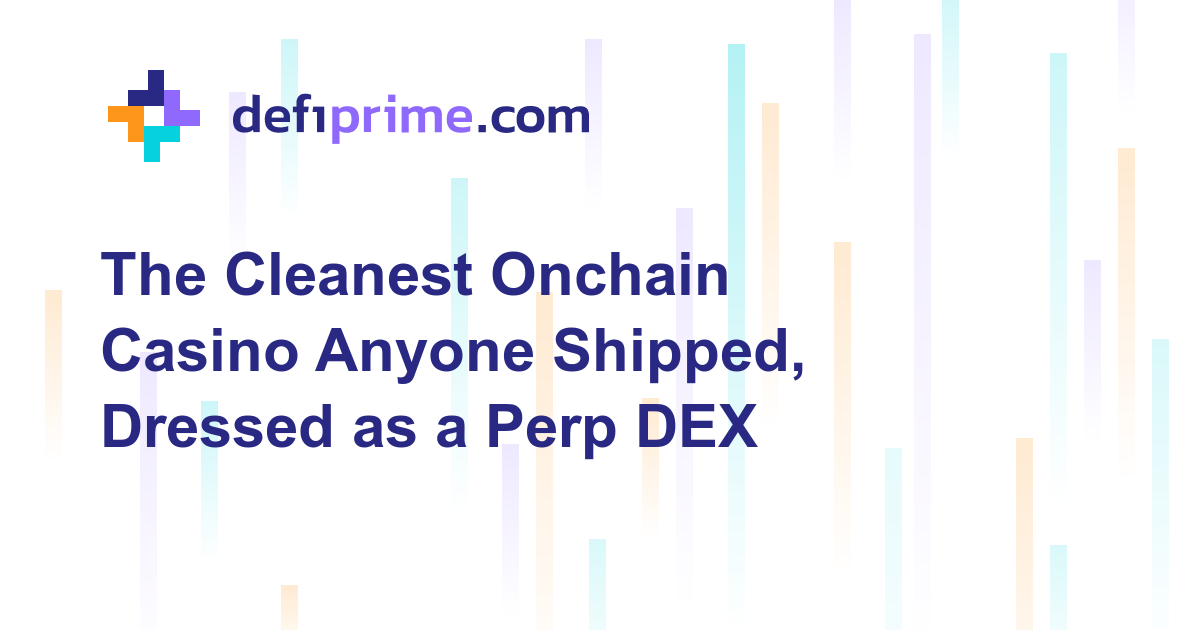
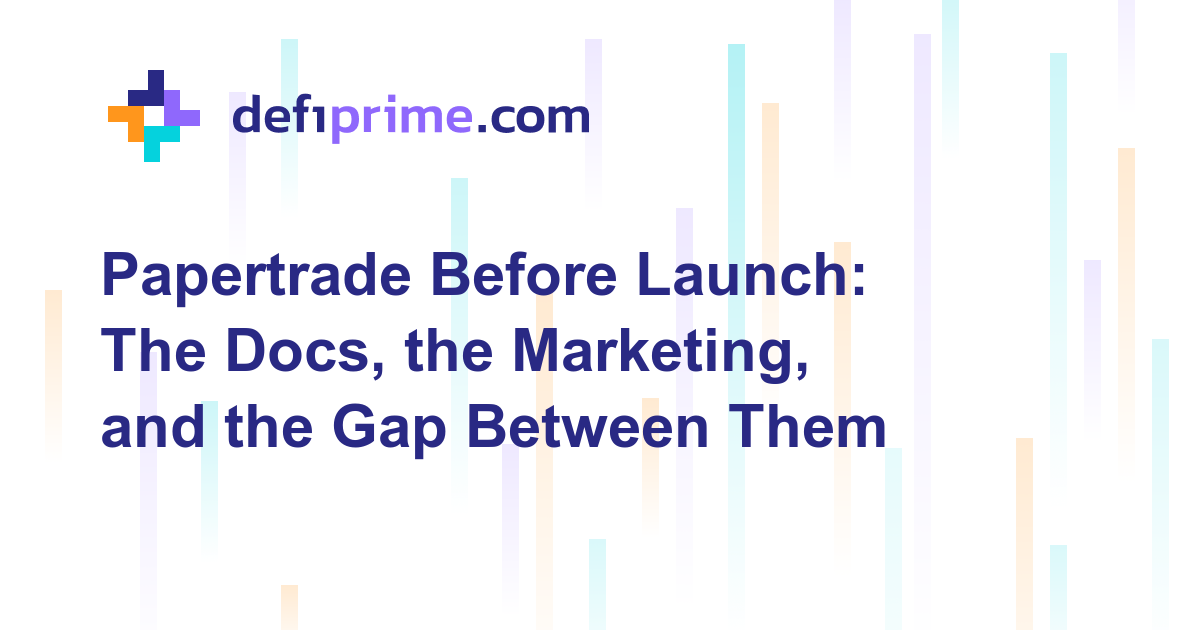
Rewrite Papertrade article: pre-launch frame, both readings, real risks
Big factual correction the previous drafts missed: papertrade is not
live. The front page says "trade coming soon"; only the docs and
whitepaper are public. Reframed as a pre-launch read of the design.

Addresses the load-bearing critiques from review:

1. Superlatives out. "Cleanest casino anyone shipped," "most honest
   design in DeFi," "most carefully engineered" all gone. Replaced
   with specific defensible claims.

2. Counter-take given equal weight. New section "The Counter-Read
   That Doesn't Get Disclosed" engages with the strongest criticism:
   1000x leverage with asymmetric haircuts is structurally trader-
   unfriendly by design, and the marketing buries that fact.

3. Oracle dependency fixed. The "zero exposure to Hyperliquid's
   risk stack" claim is wrong — papertrade reads HL's BBO and is
   exposed to HL order-book manipulation. Stated explicitly.

4. Governance fairness clarified. PAPER is supply-fair, not
   governance-fair. The contract owner controls every parameter
   in the mint curve, impact curve, and OI caps via 7-day timelock.

5. Regulation as a real risk. Anonymous team, leveraged speculative
   product distributing USDC dividends, marketing as "perp DEX"
   rather than "casino" — all framed as design responses to a
   regulatory environment the docs don't name.

6. Polymarket/UMA analogy cut. Was vibes, not structural argument.

7. Closer is now practitioner-actionable: what to watch in the LP
[…]

Changed region(s): [[0.0617, 0.6333, 0.74, 0.7238], [0.0617, 0.3921, 0.74, 0.4825], [0.0617, 0.5127, 0.6783, 0.6032]]

diff --git a/collections/_posts/2026-05-14-papertrade-hyperliquid-1000x-perps.md b/collections/_posts/2026-05-14-papertrade-hyperliquid-1000x-perps.md
@@ -1,89 +1,84 @@
 ---
 git-date:
 layout: [blog]
-title: "Papertrade Is the Cleanest Onchain Casino Anyone's Shipped, Dressed as a Perp DEX"
+title: "Papertrade Before Launch: Mechanism Design, Marketing Gaps, and the Questions the Docs Don't Answer"
 permalink: papertrade-hyperliquid-1000x-perps
-h1title: "Papertrade: The Cleanest Onchain Casino, Dressed as a Perp DEX"
-pagetitle: "Papertrade Is the Cleanest Onchain Casino Anyone's Shipped, Dressed as a Perp DEX"
-metadescription: "Papertrade's 1000x leverage and 'fair-launched fully onchain perpetual exchange' framing buries the real story: an academically-grounded onchain casino with a zero-LP bootstrap and a token minted only by losers, sitting on top of Hyperliquid's price feed."
+h1title: "Papertrade Before Launch: What the Docs Show and the Marketing Hides"
+pagetitle: "Papertrade Before Launch: Mechanism Design, Marketing Gaps, and the Questions the Docs Don't Answer"
+metadescription: "Papertrade.xyz's marketing pitches 1000x leverage synthetic perps; the trading interface is still 'coming soon'. The docs and Martin Galer whitepaper describe a peer-vs-pool casino on Hyperliquid with a zero-LP bootstrap. Here's what the design buys, what the framing buries, and what the protocol doesn't say."
 category: blog
 featured-image: /images/blog/papertrade-hyperliquid-1000x-perps-ogp.png
-intro: "Papertrade's 1000x leverage and 'fair-launched fully onchain perpetual exchange' framing buries the real story: an academically-grounded onchain casino with a zero-LP bootstrap and a token minted only by losers, sitting on top of Hyperliquid's price feed."
+intro: "Papertrade.xyz's marketing pitches 1000x leverage synthetic perps; the trading interface is still 'coming soon'. The docs and Martin Galer whitepaper describe a peer-vs-pool casino on Hyperliquid with a zero-LP bootstrap. Here's what the design buys, what the framing buries, and what the protocol doesn't say."
 author: sawinyh
 tags: ["Analysis"]
 ---
 
-The pitch on papertrade.xyz reads like every other extreme-leverage perp protocol: 1000x leverage, 0 slippage, 100% user owned, fully onchain. Read the docs and the whitepaper and that framing falls apart. Papertrade is not a perp DEX. It is the most carefully-engineered onchain casino anyone has shipped to date, with a token-economics design that's the rarest thing in DeFi — actually fair — and it runs on top of Hyperliquid without taking any of Hyperliquid's solvency risk. The "1000x perp" packaging is what gets it past the DeFi/gambling line in people's heads. The mechanism underneath is straight out of [Tarun Chitra and Guillermo Angeris' CFMM literature](https://docs.papertrade.xyz/martingaler-whitepaper.pdf).
+The papertrade.xyz front page says "trade coming soon" in small text under the 1000x-leverage marketing copy. The trading interface isn't live, the mobile app isn't live, the agent integration isn't live. What is live is a docs site at [docs.papertrade.xyz](https://docs.papertrade.xyz/) and a [whitepaper](https://docs.papertrade.xyz/martingaler-whitepaper.pdf) — *Martin Galer: A Bootstrapping Mechanism for Sustainable Asynchronous Speculation Games of Chance* — authored by Jez (@izebel_eth) and Blurr, the latter known on-chain as "Refund Contract Deployer." This piece is a pre-launch read of the design. Nothing is on chain yet; nothing in here is observed product behavior. It is what the docs commit to and what the marketing leaves out.
 
-Three things make this protocol worth paying attention to, none of them is the leverage number.
+The headline shape of the product is straightforward. Papertrade is a peer-vs-pool synthetic perp running on HyperEVM that uses Hyperliquid's best-bid/offer precompile as a price oracle. No order book, no matching engine, no other trader on the other side; the protocol's internal LP is the counterparty on every trade. The LP starts at $0 and is designed to grow only from cumulative user losses. The native token, PAPER, is minted exclusively to traders who close at a loss. None of this is hidden in the docs. All of it is hidden in the marketing.
 
-## It Doesn't Touch Hyperliquid's Risk Stack At All
+That gap between docs and marketing is the first thing worth being clear about, because the rest of the analysis depends on which document you trust as the protocol's self-description.
 
-The first surprise from the docs is that papertrade is not a [HIP-3](/hyperliquid-vs-aster) deployer. No 500,000 HYPE staked, no validator slashing exposure, no relationship with HLP. Papertrade runs its own contracts on HyperEVM — Hyperliquid's L1 EVM layer — and uses Hyperliquid's best-bid/offer precompile at `0x000000000000000000000000000000000000080e` purely as a price feed. No perp contract trades on Hyperliquid through papertrade. When you open a position, the Exchange contract reads the BBO mid, locks it as your entry, and creates a synthetic swap between you and the protocol's internal LP. When you close, it reads the BBO mid again and settles your PnL against that same LP.
+## What the Docs Commit To, in Plain Language
 
-That single architectural choice changes the risk picture entirely. The recent conversation about builder-deployed perps has centered on whether deployer stakes are calibrated to the bad-debt envelope deployers can route into HLP. Papertrade is outside that conversation. The protocol's three-bucket accounting (treasury, side bucket, payout queue) cannot route losses to HLP, because there's no relationship to HLP. If papertrade's LP blows up, the consequence lands on PAPER holders' dividends and on queued winners waiting longer — not on Hyperliquid validators, not on HLP depositors, not on anyone outside papertrade's own contracts.
+Stripped of jargon, the design is a casino with a few unusual properties.
 
-Papertrade is doing to Hyperliquid what Polymarket did to UMA: consuming the upstream's price infrastructure as a free public good, building a self-contained product on top, taking exactly zero exposure to the upstream's governance or solvency layer. The 7-day timelock on the contract owner is the only centralized lever, and it's exactly the same trust assumption you make using any proxied DeFi protocol.
+The price comes from Hyperliquid. Papertrade reads the BBO precompile at `0x000000000000000000000000000000000000080e`, takes the midpoint of the best bid and best ask on Hyperliquid's native order book, and uses it as both the entry price and the exit price for synthetic positions opened against the LP. No perpetual contract actually trades on Hyperliquid through papertrade. There is no funding cost in the protocol, because no real perp position is being held; there is no slippage at execution, because the trade clears at a precompile-read mid regardless of size.
 
-## The LP Starts at Zero. That's the Whole Point.
+The LP doesn't exist yet. There is no seed deposit, no pre-fund, no LP onboarding flow at all. The first time it has any USDC in it will be after a real user closes at a loss on the live protocol. Three buckets handle the accounting: a treasury (the LP balance, never negative), a side bucket (parked LP gains while the queue is non-empty), and a FIFO payout queue of unpaid winning closes. When a user wins and the LP can pay, they're paid. When the LP can't pay, the profit portion of the win goes to the back of the queue and the user's margin is returned immediately. When a user loses, the loss credits the LP if the queue is empty or parks in the side bucket if it isn't. A permissionless `harvest()` keeper drains the side bucket into queue payouts. Net protocol equity is `treasury + sideBucket − queueTotal`, and the docs explicitly note this can go negative.
 
-Most onchain casinos die for the same reason: they need a bankroll. SatoshiDice, Bustabit, Etheroll, EtherCrash all needed an LP seeded upfront before they could pay winners on demand. The seed had to come from somewhere — centralized capital, token-funded liquidity mining, or in EtherCrash's case, the LP getting drained by a bad actor — and that requirement made every onchain casino either custodial in spirit or a token-incentive game.
+The token is fair on supply, not on governance. PAPER has zero pre-mint, no team allocation, no VC allocation, no airdrop, no vesting. Every token has to be minted through one specific path: a trader closing at a loss or being liquidated. The mint rate is 100 PAPER per $1 of LP gain while the LP is below $2M (including underwater); above $2M the rate decays as `100 × (S / (S + H))²` with `S = $120M`. A strict high-water-mark ratchet means stakers can drain LP without resetting the rate. Stakers earn USDC dividends out of LP revenue: a continuous share of every settlement that credits the LP, plus a sweep of any LP balance above $5M.
 
-Papertrade's LP starts at $0. There is no seed, no founders' deposit, no upfront raise, and crucially, **no way for anyone to deposit directly into the LP**. The pool grows entirely from cumulative user losses. The mechanism that lets that work is the Martin Galer payout queue, written up in [a whitepaper](https://docs.papertrade.xyz/martingaler-whitepaper.pdf) co-authored by Jez (@izebel_eth) and Blurr that cites a wall of Chitra-Angeris papers on CFMM theory.
+Trading isn't actually free. The protocol charges no fee on notional, no spread, no funding, and the relayer covers gas. What it does charge is an asymmetric impact curve on winning closes only, adapted from Rollbit. The scale factor is steepest on the smallest moves and softens as the move grows; the docs publish the formula. Losing closes pay the full loss with no haircut on top. A 0.2 basis-point jitter-protection deadband zeros sub-spread wins. Trailing per-asset open-interest caps prevent an attacker who briefly distorts Hyperliquid's BBO from sizing into the distortion.
 
-The mechanics are clean enough to spell out. Three buckets: `treasury` (the LP, never negative), `sideBucket` (parked LP gains during a queue), and a FIFO `payout queue` of unpaid winning closes. When a user wins and the LP can pay, the user gets paid. When the LP can't pay, the profit portion of the win goes to the back of the queue and the user's margin returns immediately. When a user loses and the queue is empty, the loss credits the LP directly. When a user loses and the queue is non-empty, the loss is parked in the side bucket. A permissionless `harvest()` keeper periodically drains the side bucket into queue payouts in order.
+Live markets at launch are BTC and ETH, with up to 1000x leverage and a per-user position cap of $10M. The contract owner can list any Hyperliquid perp through a 7-day timelock, including HIP-3 markets.
 
-Net protocol equity is `treasury + sideBucket − queueTotal`, and the docs spell out the consequence: **that figure can go negative.** "Temporary insolvency by design." What guarantees winners eventually get paid is the assumption that aggregate user flow is positive-EV to the LP, which at 1000x leverage with the impact curve described below is almost certainly true.
+## The Genuine Contribution
 
-The thing that makes this a different category of design is that nobody is asked to put up risk capital. Traders show up to bet. Losses fund the LP. Winners may have to wait, but only on the profit portion, and only when the LP is in temporary deficit. Margin is always returned immediately. Nothing about this requires trust in a centralized treasury and nothing about it requires a token incentive that lies about what's actually happening.
+The Martin Galer mechanism is the part of the design that's worth taking seriously on its own terms. Onchain casinos have historically needed bankrolls — SatoshiDice (2012), Bustabit (2015), Etheroll (2017), EtherCrash (2018) all needed an LP seeded upfront so winners could be paid on demand. That requirement made every onchain casino either custodial in spirit or a token-incentive game, and in EtherCrash's case the LP got drained by a bad actor and the protocol died.
 
-## Every PAPER Token Is Minted By a Loser
+The Martin Galer payout queue removes the seed requirement. The cost is that winners might have to wait, but only on the profit portion of a winning close, and only when the LP is in deficit. Margin is always returned. The cost is real but contained, and the mechanism makes onchain speculation games launchable without raising risk capital up front. As a contribution to the lineage of bankroll-free game design, it's a real piece of work.
 
-The PAPER tokenomics are the most honest design I've seen in DeFi this cycle. Total supply at genesis: zero. No pre-mint. No team allocation. No VC allocation. No airdrop. No vesting. The only way a PAPER token comes into existence is for a trader to close a position at a loss or get liquidated, at which point the protocol mints PAPER to that trader's wallet against the loss.
+The PAPER tokenomics are similarly clean as a supply mechanism. Every token comes from a documented on-chain loss. The mint curve is front-loaded so early variance-takers are rewarded most. The ratchet ensures the rate decays monotonically. Stakers absorb the LP's variance through a continuous USDC dividend rather than a vesting schedule. Compared to recent "fair launch" attempts that ship with significant insider allocations behind cliff vests (Friend.tech) or where the bootstrap actually depended on a separate pre-funded incentive pool (most LRT protocols' "points" phases), PAPER's supply story is cleaner than most.
 
-The rate is mathematical. While the LP balance is below $2M (including any time it's underwater), the rate is a flat 100 PAPER per $1 of LP gain. Above $2M, the rate decays as `100 × (S / (S + H))²` where `S = $120M` and `H` is the cumulative LP gain past the threshold. The decay is a strict high-water-mark ratchet — if stakers drain LP back below the threshold, the rate stays decayed forever. The cumulative tail HWM only ever ratchets up.
+Whether the Chitra-Angeris CFMM citations in the whitepaper actually load-bear the mechanism is a separate question. The Martin Galer queue itself is a FIFO scheme with a solvency-ratio check; the heavy CFMM math doesn't show up in the actual protocol logic. The references function more as a signal of academic-mindedness than as proof of mechanism quality.
 
-What stakers get in return: a continuous USDC dividend out of LP revenue, paid in two streams. Every settlement that credits the LP carves a slice for stakers. Once the LP balance grows past $5M, every dollar of LP gain past that point sweeps fully to stakers. Stake and unstake are both instant — no cooldown, no lockup, no minimum.
+## The Counter-Read That Doesn't Get Disclosed
 
-This works as an economic loop in a way most "fair launch" tokens don't. A PAPER holder is, by definition, someone who paid real USDC into the LP through a losing trade. They are buying back a fractional claim on future LP revenue by absorbing the early variance. The flat-region mint rate is what makes that trade attractive when the LP is small or underwater — exactly the period where most protocols would either need a token-incentive program or a seed deposit. Here the participation incentive is mechanically tied to the protocol's bootstrapping need. A loser at LP = -$50K mints flat at the full 100/$ rate. A loser at LP = $50M mints far less. By design.
+The thing the docs are careful about and the marketing isn't: papertrade is a leveraged speculation product with an asymmetric payout curve where winners are scaled, losers pay in full, and the protocol's economic engine depends on aggregate user flow being negative-EV for the user.
 
-Compare this to any recent "fair launch" you can name. PAPER has no premise of equality, no insider allocation hidden in a vesting cliff, no liquidity bootstrap built on top of pre-allocated tokens. The supply curve is the protocol's economic engine and the protocol's economic engine is the supply curve. There is one mechanism, and it is legible from the source code.
+At 1000x leverage on BTC or ETH with a 5-basis-point bust-price buffer, the per-trade dynamics are punishing for the user. Maintenance margin extrapolated from Hyperliquid's documented formula would put liquidation around a 5-basis-point adverse move. Add the asymmetric impact haircut that's steepest on small moves and the 0.2-basis-point deadband that zeros sub-spread wins, and the trader needs a directional move large enough to escape the steep part of the curve, fast enough to avoid bust, without sitting in position long enough for the buffer to bite. The expected return per trade for an uninformed trader is meaningfully negative. That's the design. The LP can bootstrap from zero precisely because the design is structurally trader-unfriendly enough to guarantee losses on aggregate.
 
-## The Asymmetric Impact Curve Tells You Who the Product Is For
+The whitepaper is explicit about this — it describes the protocol as a "game of chance" and walks through worked examples of fair coin flips and games with positive house edge. The marketing page is not. The marketing page says "perpetual futures exchange," "1000x leverage," "0 slippage," "0 market impact," "no funding costs," "no trading fees." It does not say "casino." It does not say "house edge." It does not say "the LP needs you to lose for the protocol to work."
 
-If trades have no fees, no spread, no funding cost, and no gas — and they don't — the natural question is what feeds the LP at all. The answer is an asymmetric impact curve, adapted from Rollbit. On a winning close the protocol applies a scale factor that depends on how far price moved between entry and exit:
+That gap is not an accident. "Onchain casino" is a regulatory category. "Perpetual futures exchange" is a different one, and the second one has more room to operate in the US and EU. The team is anonymous (Jez/@izebel_eth and Blurr, the latter previously deployed a refund contract on Ethereum and is otherwise unidentified) which is consistent with regulatory caution about who carries the legal exposure of a product distributing leveraged speculative payouts to US users. None of this is dispositive, but a defiprime reader should know the framing choice is doing work.
 
-```
-adjustedPnl = rawPnl × scale
-scale       = (1 − baseRate) / (1 + term1 + term2)
-term1       = 1 / (move × rateMultiplier)
-term2       = referenceNotional / (move × positionMultiplier)
-```
+## The Risks the Docs Note and the Risks They Don't
 
-Losing closes pay the full loss with no haircut. Winning closes are scaled. Bigger price moves keep more of the gain; tiny moves are scaled most aggressively. Papertrade's twist on the Rollbit formulation is that the position-size factor (`term2`) uses a fixed per-instrument reference notional rather than the trader's actual size, so the haircut percentage is the same on a $100 close and a $100K close.
+The docs are direct about three protocol-level risks. Queue overhang during the early life of the protocol means winning closes can wait for the LP to refill. A 7-day timelock on the contract owner gives users a week to exit before any parameter change or implementation upgrade. A known race-condition bug on the deposit sweep is mitigated by a separate 7-day-timelock admin key whose only job is to credit orphaned deposits. The team flags all of these.
 
-This curve does two jobs. It funds the LP, which is the visible job. The less visible job is that it makes BBO oracle manipulation unprofitable. The natural attack on a perp that reads BBO directly is to place a small limit order on Hyperliquid's book to shift the mid by a tick, then open and close a position against the distorted price. The impact curve is steepest on the smallest moves, so a sub-spread manipulation produces a gain that gets eaten almost entirely by the haircut. Stack a 0.2 basis-point jitter-protection deadband on top (small wins below `entryPrice / 50000` are zeroed) and trailing per-asset open-interest caps, and the attack stops being economically viable. That is why papertrade can read BBO directly with no circuit breaker and no off-chain oracle.
+The risks the docs don't engage with are at least as material.
 
-What the curve tells you about the target user is more interesting. At 1000x leverage with a haircut that's harshest on the smallest moves and a bust-price buffer of 5 basis points, the per-trade economics are aggressive on the LP's side. To actually make money, a trader needs to catch directional moves big enough to escape the steep part of the curve, fast enough to avoid bust, without trying to scalp small ticks (which get haircut to zero) and without sitting in positions long enough for the bust buffer to bite. This isn't a serious trader's product. It's a high-variance product for users who understand they are betting, designed to be honest about that. The PAPER emissions curve front-loads the consolation prize for the early variance-takers. The asymmetric impact funds the LP. Both mechanisms align around a specific user: someone showing up for the lottery, not for the directional edge.
+Oracle dependency on Hyperliquid is not zero just because there's no HIP-3 relationship. Papertrade's execution price is Hyperliquid's BBO mid. The impact curve and OI caps defend against sub-spread manipulation. They do not defend against a coordinated attack on Hyperliquid's order book itself — the JELLYJELLY incident from March 2025 showed validators willing to intervene in cases where book-level manipulation distorts a thin perp market. Papertrade reads BBO on BTC and ETH spot, which are deep, but the dependency is real and the protocol has no fallback feed.
 
-## What Can Actually Go Wrong
+Governance is centralized despite the fair-launch framing. The contract owner sits behind a 7-day timelock and can rewrite every parametric knob in the system: the flat-region mint rate, the $2M threshold, the $120M decay scale, the impact curve constants per market, the OI caps, the bust-price buffer, the fee rates. PAPER is fair in *supply*. It is not fair in *governance*. A future owner action could materially change which traders mint how much PAPER, what the LP captures per losing trade, and what stakers earn. The timelock is the right mitigation. It is not no mitigation.
 
-Three real risks, in order of likelihood.
+Regulation is the largest unaddressed surface. A protocol that offers 1000x leverage on synthetic price exposure, takes losses through what the whitepaper calls a "house edge," distributes the proceeds as USDC dividends to token holders, and is operated by an anonymous team is on every relevant regulator's radar. The CFTC, the SEC, and the FCA have all moved against substantially similar products in 2024-2025. The Rollbit framing the docs invoke is also the framing that has drawn regulatory attention. The team's anonymity, the offshore-leaning structure, and the omission of "casino" or "speculation" language from the marketing all read as design responses to a regulatory environment the docs do not name.
 
-**Queue overhang.** In the early life of the protocol, the LP is small or negative, and a string of winning closes can queue up profit payouts that wait until losses refill the side bucket. Margin is always returned immediately, but the profit portion can sit. This is the visible cost of the zero-LP bootstrap. The protocol is honest about it. Whether users tolerate it is the empirical question of the first six months.
+Aggregate-EV failure is the mathematical risk. The Martin Galer mechanism only settles if cumulative user flow is positive-EV for the LP across time. At 1000x with the documented impact curve, it almost certainly is for an uninformed trader population. If the realised user base is dominated by traders with edge — automated systems exploiting BBO jitter inside the impact curve's tolerance, or insiders trading parameter changes — the queue grows without bound and the protocol never settles. This is structurally unlikely but not zero.
 
-**The 7-day timelock owner.** The contracts are proxied. The contract owner can tune the impact-curve parameters, the mint-rate constants, the OI caps, the fee rates, and ultimately upgrade the implementation. Every owner action queues publicly for 7 days before it can execute, so users have a week to withdraw and exit if they disagree. This is a real trust assumption. It's the same one you make with most DeFi protocols, but it's worth naming because the mint curve and the impact curve are both parametric.
+## What's Worth Watching, If You're Watching
 
-**Aggregate trader EV.** The Martin Galer mechanism mathematically only works if cumulative user flow is positive-EV for the LP over time. If, hypothetically, papertrade attracted a population of users who were systematically winning against the BBO oracle through some pattern the impact curve didn't price in, the queue would grow without bound and the protocol would never settle. This is structurally unlikely at 1000x leverage on BTC and ETH — the impact curve and the bust buffer are designed to make sub-move-size profit extraction uneconomic. But it is the load-bearing assumption of the whole design, and the data to confirm it will only exist after users actually trade.
+Once papertrade ships and the trading interface goes live, the data that matters won't be the leverage offer. It'll be more concrete:
 
-The two risks that aren't there are worth naming too. There's no HLP exposure, so a bad day on papertrade doesn't drain anyone else's vault. There's no validator-intervention vector, because there's no HIP-3 market to delist. The protocol's bad outcomes are contained inside its own three-bucket accounting and its own token holders.
+The first ~$2M of LP growth is the flat-rate window. The rate at which the LP fills through this window is the realised house edge — the speed at which 100-PAPER/$1 mints accumulate against actual user losses. If the LP fills slowly, the protocol is closer to fair to users than the design implies. If it fills fast, the design works as advertised, which is bad for users and good for early stakers.
 
-## What This Actually Is
+The queue overhang ratio is the user-experience proxy. The closer queue total runs to LP balance, the more often winning closes will wait. Early protocol life will look queue-heavy by definition; the question is how quickly the queue clears once aggregate flow tips into positive-EV territory for the LP.
 
-The honest framing for papertrade is that it's an onchain casino, designed with the seriousness of a DeFi protocol, that has chosen to present itself as a perp DEX because that framing gets through filters that "onchain casino" doesn't. The whitepaper is explicit about the lineage — SatoshiDice through EtherCrash through Rollbit — and the mechanism design is the next step in that lineage rather than a divergence from it.
+The first owner action through the timelock will tell you what kind of protocol governance is in practice. A trivial parameter tweak is the boring outcome. An impact-curve recalibration in either direction is informative. A mint-curve constant change is a serious signal about how the team thinks about the existing PAPER holder base.
 
-That's not a criticism. It is a more interesting product than most of the actual perp DEXs in the ecosystem right now, because it is solving a real mechanism-design problem that perp DEXs don't have. Onchain casinos need bankrolls and onchain casinos need fair token distribution and onchain casinos need oracle integrity. Papertrade has a paper, a code base, and a deployment that addresses all three at once.
+And the regulatory surface will move first — either because the team de-anonymizes ahead of an institutional relationship, or because a regulator names the product and the team makes a structural change in response, or because nothing happens for long enough that the omission becomes the answer.
 
-What it asks of the user is something most DeFi protocols don't ask: be honest about why you're here. If you are here because you want directional exposure to BTC at moderate leverage with predictable funding, this is not your product — go use Hyperliquid's native perps. If you are here because you want a lottery ticket with a token-rebate built in, the design is coherent and the math is documented and the LP can't run with your money because there is no LP custodian to run anywhere. That is rare. It is worth recognizing on its own terms.
+What papertrade is, in the end, depends on which document you trust. The docs describe a serious mechanism-design exercise with a real contribution to the onchain speculation-game lineage and an unusually clean supply-side tokenomics design. The marketing describes a leveraged perpetual futures exchange. The team has chosen to publish both. A practitioner reading defiprime should hold both in view: this is a more carefully reasoned piece of casino engineering than most onchain casinos, and it is a leveraged speculation product whose regulatory positioning depends on no one calling it that out loud. Both readings are accurate. They are not the same protocol.
 
 For related defiprime coverage on Hyperliquid: [Hyperliquid vs. Aster](/hyperliquid-vs-aster) and the [Hyperliquid Chain ecosystem deep dive](/hyperliquid-chain-deep-dive). The product page for [Hyperliquid](/product/hyperliquid) sits in the [perps](/perps) collection.